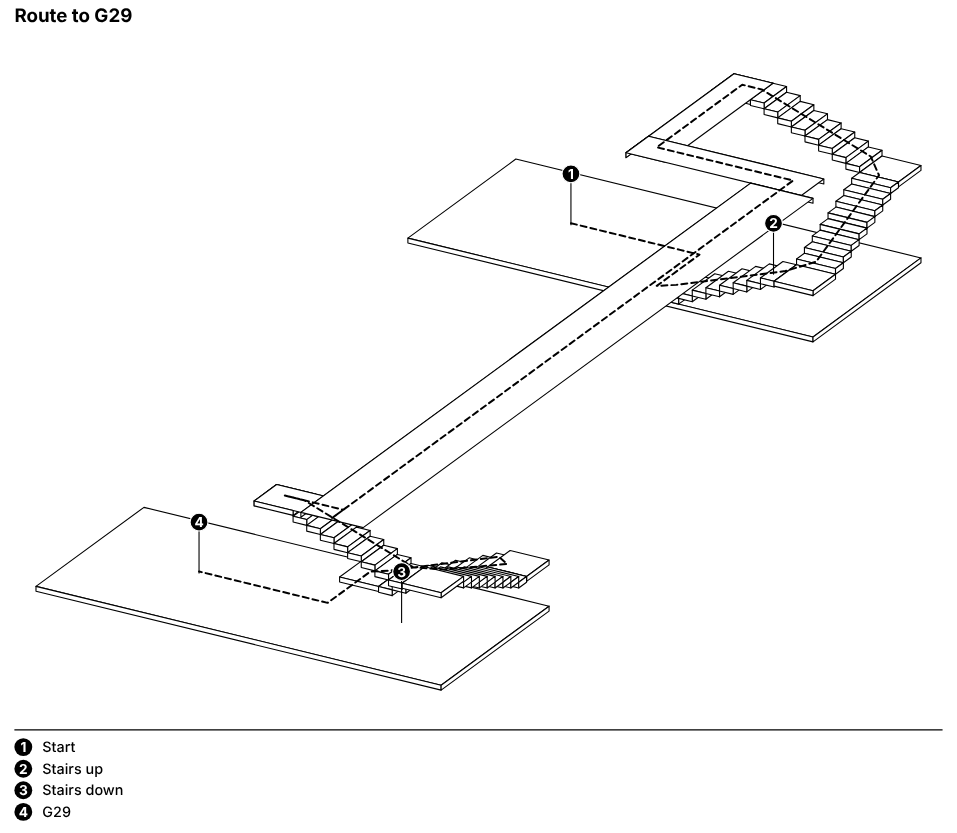
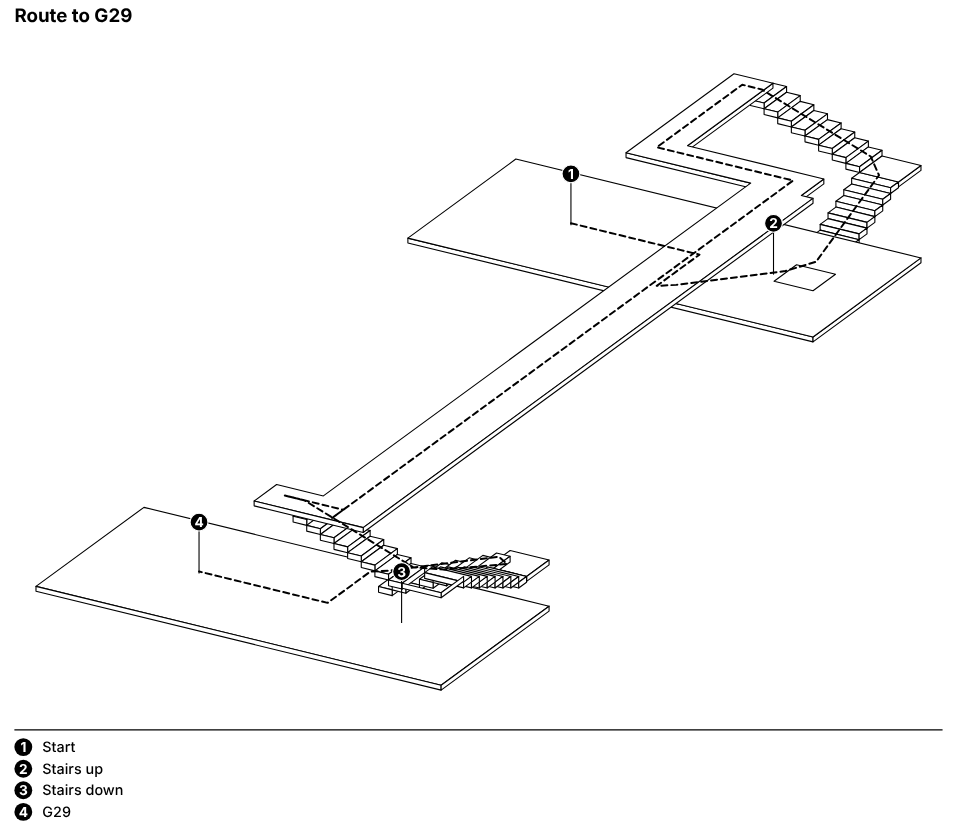
Merge coplanar surfaces before drawing: one outline per continuous floor, no tile borders
- geometry/rectunion.py: exact union of axis-aligned rectangles (outer loops + holes)
- isometric and plan writers merge flat surfaces at the same height (slabs, landings,
  walked galleries, corridor); side faces follow the merged boundary; steps stay separate

Claude-Session: https://claude.ai/code/session_01NWuCfmRs5F1dnQo5wNkJU5

diff --git a/gsplat_utils/geometry/svg.py b/gsplat_utils/geometry/svg.py
@@ -7,6 +7,8 @@ from pathlib import Path
 
 import numpy as np
 
+from .rectunion import is_axis_rect, loop_is_ccw, rect_of, union_loops
+
 PALETTE = {
     "floor": "#e9e6df", "floor_stroke": "#b9b4a8", "wall": "#2b2b2b", "opening": "#9a9a9a",
     "stairs": "#d9d3c4", "path": "#d9482b", "label": "#111111", "label_dot": "#d9482b",
@@ -70,30 +72,46 @@ def write_plan_svg(path, diagram: dict, level_id: int | None, bounds: tuple[floa
     runs = diagram["runs"]
     sel = [r for r in runs if level_id is None or r["kind"] == "stairs" or r["level"] == level_id]
     sel = [r for r in sel if r["kind"] != "stairs"] + [r for r in sel if r["kind"] == "stairs"]   # floors under flights
-    # floors
+    # floors: coplanar axis-aligned flats merged per height (no borders inside a continuous floor)
+    merged: dict[float, list] = {}
     for r in sel:
         if r["kind"] == "stairs" and level_id is not None and level_id not in (r["level_from"], r["level_to"]):
             continue
         if r["kind"] == "stairs" and r.get("atrium"):   # gallery ring first, flights on top
-            upper_only = r["atrium"].get("ring_levels") == "upper"
+            ring_mode = r["atrium"].get("ring_levels", "both")
             upper = max(r["level_from"], r["level_to"])
-            if not upper_only or level_id is None or level_id == upper:
+            if ring_mode in ("upper", "both") and (ring_mode == "both" or level_id is None or level_id == upper):
                 for q in r["atrium"].get("ring", []):
                     out.append(_poly(np.array([P(p) for p in q]), fill="#f7f5f0", stroke="#8c8577", stroke_width=0.8))
+        thick = r.get("quad_thickness") or [None] * len(r.get("quads") or [])
+        rest = []
+        for q, th in zip(r.get("quads") or [r["outline"]], thick if len(thick) == len(r.get("quads") or [r["outline"]]) else [None] * len(r.get("quads") or [r["outline"]])):
+            qa = np.array(q, float)
+            flat = qa.shape[1] == 3 and np.ptp(qa[:, 2]) <= 1e-6
+            is_step = r["kind"] == "stairs" and r.get("steps") and th is not None and th < 0.1
+            if flat and not is_step and is_axis_rect(qa):
+                merged.setdefault(round(float(qa[0, 2]), 3), []).append(rect_of(qa))
+            else:
+                rest.append(q)
         fill = PALETTE["stairs"] if r["kind"] == "stairs" else PALETTE["floor"]
-        for q in r.get("quads") or [r["outline"]]:
+        for q in rest:
             pts = np.array([P(p) for p in q])
             out.append(_poly(pts, fill=fill, stroke="none" if draw_walls else PALETTE["wall"],
                              stroke_width=1.2, stroke_linejoin="round", fill_opacity=0.95))
-        if r["kind"] == "stairs":
+        if r["kind"] == "stairs" and not r.get("steps"):
             out.extend(_tread_lines(r, P, px_per_m))
-            if r.get("atrium"):
-                at = r["atrium"]
-                c = np.array([P(p) for p in at["corners"]])
-                out.append(_poly(c, fill="white", stroke="#4a4a4a", stroke_width=1.2, stroke_dasharray="5 3"))
-                # diagonal cross = void (architectural convention)
-                out.append(_line(c[0], c[2], stroke="#9a9a9a", stroke_width=0.8))
-                out.append(_line(c[1], c[3], stroke="#9a9a9a", stroke_width=0.8))
+        if r["kind"] == "stairs" and r.get("atrium") and r["atrium"].get("void_lines", True):
+            at = r["atrium"]
+            c = np.array([P(p) for p in at["corners"]])
+            out.append(_poly(c, fill="white", stroke="#4a4a4a", stroke_width=1.2, stroke_dasharray="5 3"))
+            # diagonal cross = void (architectural convention)
+            out.append(_line(c[0], c[2], stroke="#9a9a9a", stroke_width=0.8))
+            out.append(_line(c[1], c[3], stroke="#9a9a9a", stroke_width=0.8))
+    for z, rects in sorted(merged.items()):
+        loops = union_loops(rects)
+        d_parts = ["M " + " L ".join(f"{_fmt(x)},{_fmt(y)}" for x, y in np.array([P(p) for p in lp])) + " Z" for lp in loops]
+        out.insert(2, f'<path d="{" ".join(d_parts)}" fill="{PALETTE["floor"]}" fill-rule="evenodd" '
+                      f'stroke="{PALETTE["wall"]}" stroke-width="1.2" stroke-linejoin="round" fill-opacity="0.95"/>')
     # walls
     for r in (sel if draw_walls else []):
         if r["kind"] == "stairs":
@@ -326,6 +344,30 @@ def write_axo_svg(path, diagram: dict, view: AxoView, cutaway_height: float = 1.
             p2s, ds = view.project(side)
             faces.add(layer, _quad_depth(ds) - 0.02, poly(p2s * ppm, _side_tone(n, view, sa, sb)))
 
+    # coplanar axis-aligned flat surfaces are merged per height so touching
+    # slabs, landings and walkways share one outline (no borders inside)
+    flat_groups: dict[tuple, dict] = {}
+
+    def collect_flat(quad: np.ndarray, off: float, layer: str, layer_rank: int, thickness: float, fill: str) -> bool:
+        if not is_axis_rect(quad) or np.ptp(quad[:, 2]) > 1e-6:
+            return False
+        key = (round(float(quad[0, 2]), 3), round(float(off), 3), round(float(thickness), 3))
+        g = flat_groups.setdefault(key, {"rects": [], "layer": layer, "rank": layer_rank, "fill": fill,
+                                         "z": float(quad[0, 2]), "off": float(off), "thickness": float(thickness)})
+        g["rects"].append(rect_of(quad))
+        if layer_rank > g["rank"]:
+            g["layer"], g["rank"], g["fill"] = layer, layer_rank, fill
+        return True
+
+    def layer_rank_of(layer: str) -> int:
+        # level-L1 above stairs-L0 above level-L0 ...
+        kind, _, num = layer.partition("-L")
+        try:
+            n = int(num)
+        except ValueError:
+            n = 0
+        return n * 2 + (1 if kind == "stairs" else 0) + (1 if kind == "level" else 0) * 0
+
     for r in diagram["runs"]:
         layer = run_layer(r)
         quads = [np.array(q, float) for q in (r.get("quads") or [])]
@@ -341,9 +383,20 @@ def write_axo_svg(path, diagram: dict, view: AxoView, cutaway_height: float = 1.
 
             def off_at(z):
                 return lo_ + (hi_ - lo_) * (z - z_lo) / span
+
+            def at_hi(_r):
+                return True
             is_steps = bool(r.get("steps"))
             for quad, th in zip(quads, thick):
                 offs = np.array([off_at(z) for z in quad[:, 2]])
+                if is_steps and abs(th - slab) < 1e-6 and np.ptp(quad[:, 2]) <= 1e-6:
+                    # landing / walkway: merge with the floor it belongs to
+                    zq = float(quad[0, 2])
+                    lid = r["level_to"] if abs(zq - (z_hi if r["level_to"] >= 0 and at_hi(r) else z_lo)) < 1e-6 else -1
+                    target_layer = f"level-L{r['level_to']}" if (r["level_to"] >= 0 and abs(zq - z_hi) < 1e-6 and r["level_to"] > r["level_from"]) else \
+                                   f"level-L{r['level_from']}" if (r["level_from"] >= 0 and abs(zq - z_hi) < 1e-6 and r["level_from"] > r["level_to"]) else layer
+                    if collect_flat(quad, float(offs[0]), target_layer, layer_rank_of(target_layer), th, S["stairs_top"]):
+                        continue
                 slab_faces(layer, quad, offs, S["stairs_top"], th,
                            side_fills=(S["riser"], S["riser"]) if is_steps else None)
                 if not is_steps and abs(quad[1, 2] - quad[0, 2]) > 1e-6:   # tread lines on sloped slabs
@@ -388,7 +441,8 @@ def write_axo_svg(path, diagram: dict, view: AxoView, cutaway_height: float = 1.
         else:
             off = lvl_off(r["level"])
             for quad, th in zip(quads, thick):
-                slab_faces(layer, quad, [off] * 4, S["floor_top"], th)
+                if not collect_flat(quad, off, layer, layer_rank_of(layer), th, S["floor_top"]):
+                    slab_faces(layer, quad, [off] * 4, S["floor_top"], th)
             for w in (r["walls"] if draw_walls else []):
                 a, b = np.array(w["a"]), np.array(w["b"])
                 z0 = w["z0"]
@@ -407,6 +461,38 @@ def write_axo_svg(path, diagram: dict, view: AxoView, cutaway_height: float = 1.
                     p2, d = P(np.array([[*pa, z0], [*pb, z0]]), off)
                     faces.add(layer, _quad_depth(d), _line(p2[0], p2[1], stroke=S["muted"], stroke_width=lw,
                                                             stroke_dasharray="3 3"))
+    # merged flats: one outline per connected coplanar surface, side faces on its boundary
+    _, _, wv = view.axes()
+    for g in flat_groups.values():
+        loops = union_loops(g["rects"])
+        if not loops:
+            continue
+        z = g["z"] + g["off"]
+        allp = np.vstack(loops)
+        p3 = np.c_[allp, np.full(len(allp), z)]
+        p2all, dall = view.project(p3); all_pts.append(p2all)
+        depth = float(dall.mean())
+        d_parts = []
+        for lp in loops:
+            p2, _ = view.project(np.c_[lp, np.full(len(lp), z)])
+            d_parts.append("M " + " L ".join(f"{_fmt(x * ppm)},{_fmt(y * ppm)}" for x, y in p2) + " Z")
+        faces.add(g["layer"], depth - 0.03,
+                  f'<path d="{" ".join(d_parts)}" fill="{g["fill"]}" fill-rule="evenodd" stroke="{S["line"]}" '
+                  f'stroke-width="{lw}" stroke-linejoin="round"/>')
+        for lp in loops:
+            n_ = len(lp)
+            for k in range(n_):
+                a, b = lp[k], lp[(k + 1) % n_]
+                e = b - a
+                nrm = np.array([e[1], -e[0]]) if loop_is_ccw(lp) else np.array([-e[1], e[0]])
+                nrm = nrm / max(np.linalg.norm(nrm), 1e-9)
+                if np.array([nrm[0], nrm[1], 0.0]) @ wv <= 0:
+                    continue
+                side = np.array([[*a, z], [*b, z], [*b, z - g["thickness"]], [*a, z - g["thickness"]]])
+                p2s, ds = view.project(side)
+                faces.add(g["layer"], float(ds.mean()) - 0.02,
+                          poly(p2s * ppm, _side_tone(nrm, view, S["floor_side_a"], S["floor_side_b"])))
+
     # path: one dashed polyline per continuous stretch; on stairs it climbs with the flights
     if show_path:
         pts = np.array(diagram["path"]["points"])

diff --git a/gsplat_utils/geometry/rectunion.py b/gsplat_utils/geometry/rectunion.py
@@ -1,0 +1,94 @@
+"""Exact union of axis-aligned rectangles -> boundary loops (outer loops
+counter-clockwise, holes clockwise). Used so coplanar surfaces that touch are
+drawn as one shape without internal borders."""
+from __future__ import annotations
+
+import numpy as np
+
+
+def is_axis_rect(quad: np.ndarray, tol: float = 1e-4) -> bool:
+    q = np.asarray(quad, float)[:, :2]
+    if len(q) != 4:
+        return False
+    xs, ys = np.unique(np.round(q[:, 0], 4)), np.unique(np.round(q[:, 1], 4))
+    if len(xs) != 2 or len(ys) != 2:
+        return False
+    return abs((xs[1] - xs[0]) * (ys[1] - ys[0])) > tol
+
+
+def rect_of(quad: np.ndarray) -> tuple[float, float, float, float]:
+    q = np.asarray(quad, float)[:, :2]
+    return float(q[:, 0].min()), float(q[:, 1].min()), float(q[:, 0].max()), float(q[:, 1].max())
+
+
+def union_loops(rects: list[tuple[float, float, float, float]], snap: float = 1e-4) -> list[np.ndarray]:
+    """Boundary loops of the union of rectangles (x0, y0, x1, y1)."""
+    if not rects:
+        return []
+    r = np.array(rects, float)
+    r = np.round(r / snap) * snap
+    xs = np.unique(np.r_[r[:, 0], r[:, 2]]); ys = np.unique(np.r_[r[:, 1], r[:, 3]])
+    nx, ny = len(xs) - 1, len(ys) - 1
+    if nx < 1 or ny < 1:
+        return []
+    cx = 0.5 * (xs[:-1] + xs[1:]); cy = 0.5 * (ys[:-1] + ys[1:])
+    covered = np.zeros((nx, ny), bool)
+    for x0, y0, x1, y1 in r:
+        ix = (cx > x0) & (cx < x1); iy = (cy > y0) & (cy < y1)
+        covered[np.ix_(ix, iy)] = True
+    # directed boundary edges with the interior on the left
+    edges: dict[tuple[float, float], list[tuple[float, float]]] = {}
+
+    def add(a, b):
+        edges.setdefault(a, []).append(b)
+    for i in range(nx):
+        for j in range(ny):
+            if not covered[i, j]:
+                continue
+            x0, x1, y0, y1 = xs[i], xs[i + 1], ys[j], ys[j + 1]
+            if j == 0 or not covered[i, j - 1]:
+                add((x0, y0), (x1, y0))        # bottom, interior above
+            if i == nx - 1 or not covered[i + 1, j]:
+                add((x1, y0), (x1, y1))        # right
+            if j == ny - 1 or not covered[i, j + 1]:
+                add((x1, y1), (x0, y1))        # top
+            if i == 0 or not covered[i - 1, j]:
+                add((x0, y1), (x0, y0))        # left
+    loops = []
+    while edges:
+        start = next(iter(edges))
+        loop = [start]
+        cur = start
+        prev_dir = None
+        while True:
+            nxts = edges.get(cur)
+            if not nxts:
+                break
+            # at a vertex with several outgoing edges, prefer turning right-most relative to the
+            # incoming direction? For rectilinear unions, choosing the edge that is NOT a
+            # straight continuation of the opposite loop is handled by taking the first and
+            # relying on each vertex having matched in/out degrees.
+            nxt = nxts.pop(0)
+            if not nxts:
+                del edges[cur]
+            loop.append(nxt)
+            cur = nxt
+            if cur == start:
+                break
+        pts = np.array(loop[:-1], float) if len(loop) > 1 and loop[-1] == loop[0] else np.array(loop, float)
+        if len(pts) >= 4:
+            # drop collinear vertices
+            keep = []
+            n = len(pts)
+            for k in range(n):
+                a, b, c = pts[k - 1], pts[k], pts[(k + 1) % n]
+                if abs((b[0] - a[0]) * (c[1] - b[1]) - (b[1] - a[1]) * (c[0] - b[0])) > 1e-9:
+                    keep.append(b)
+            if len(keep) >= 4:
+                loops.append(np.array(keep))
+    return loops
+
+
+def loop_is_ccw(loop: np.ndarray) -> bool:
+    x, y = loop[:, 0], loop[:, 1]
+    return float(np.dot(x, np.roll(y, -1)) - np.dot(y, np.roll(x, -1))) > 0
